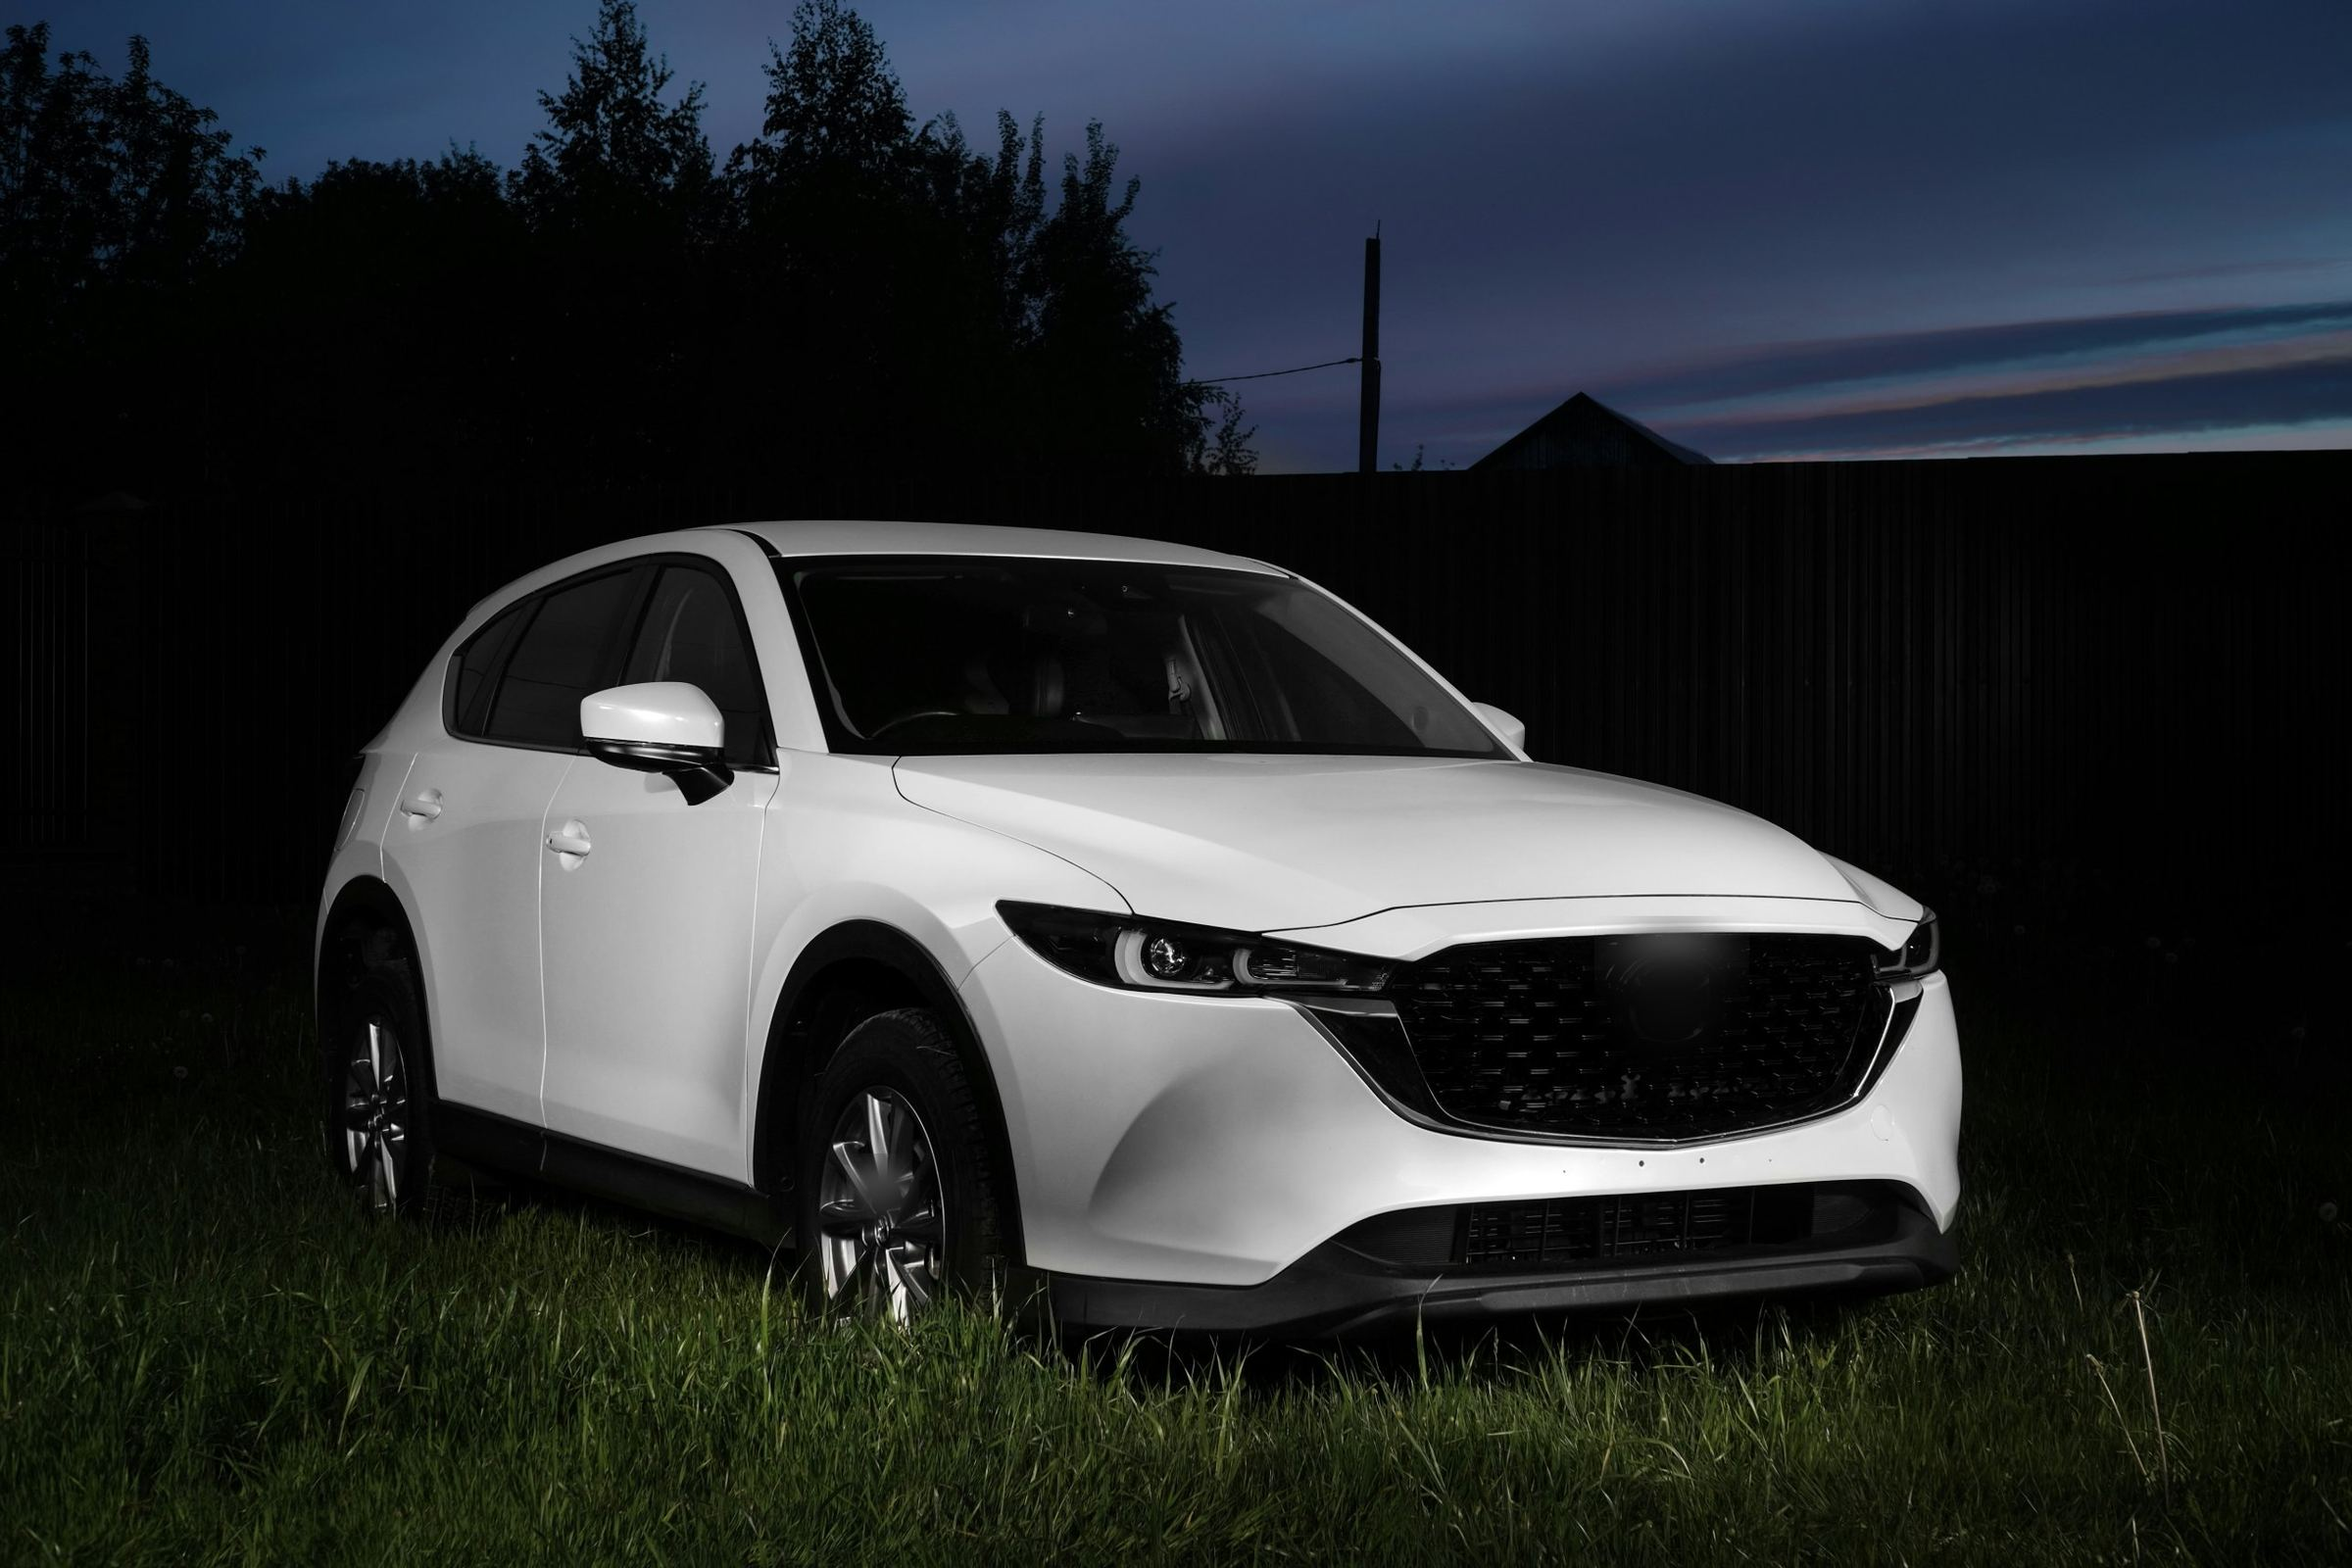
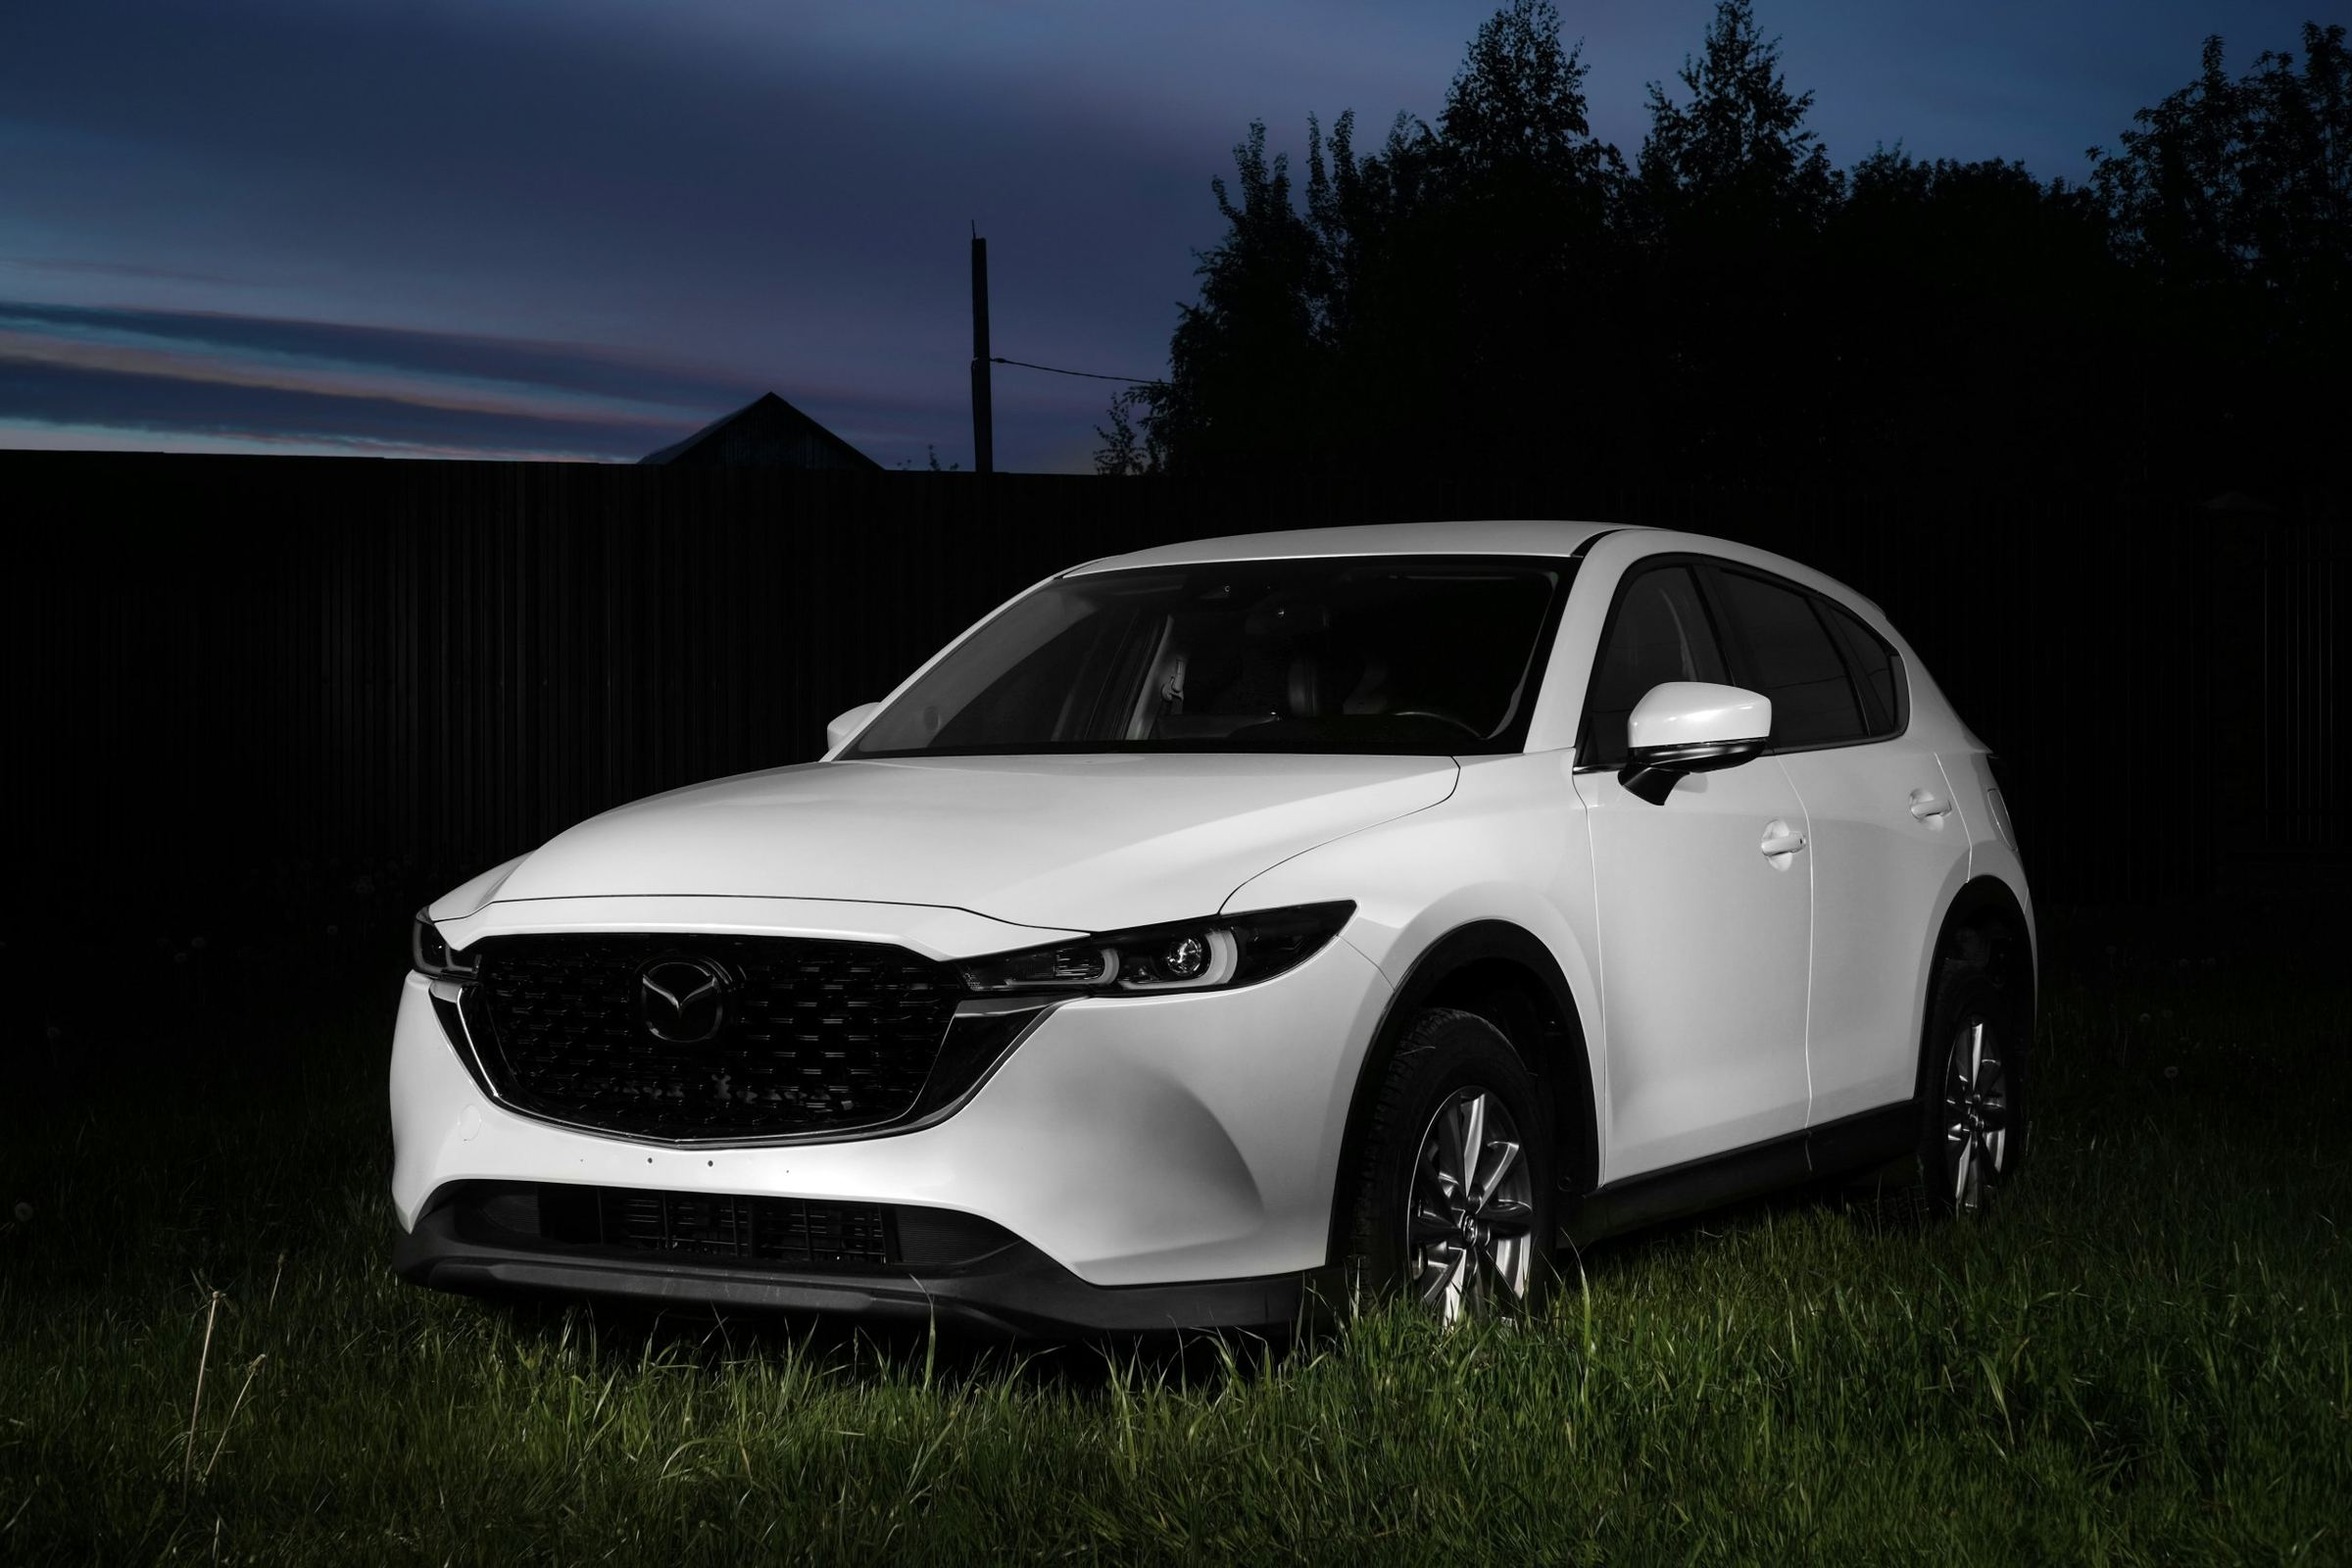
Add files via upload

diff --git a/src/lib/heroImages.ts b/src/lib/heroImages.ts
@@ -39,8 +39,8 @@ export const HOME_SLIDES = [
   "/images/hero-coming-soon.jpg",
 ];
 
-// Slideshow photos added October 2026 (Unsplash License). Brand badges are
-// softened, and the CX-5 and Nissan are mirrored so the car sits on the right:
+// Slideshow photos added October 2026 (Unsplash License), shown as taken,
+// badges included (not mirrored: that would reverse the brand names):
 //   slide-prado           Zenigame Photo       unsplash.com/photos/oaZ9WEVW7g8
 //   slide-cx5             Dmitriy Ivanovich    unsplash.com/photos/LtDGV5s_-zk
 //   slide-nissan          Matthijs Waanders    unsplash.com/photos/iw0D_9wHnf4
